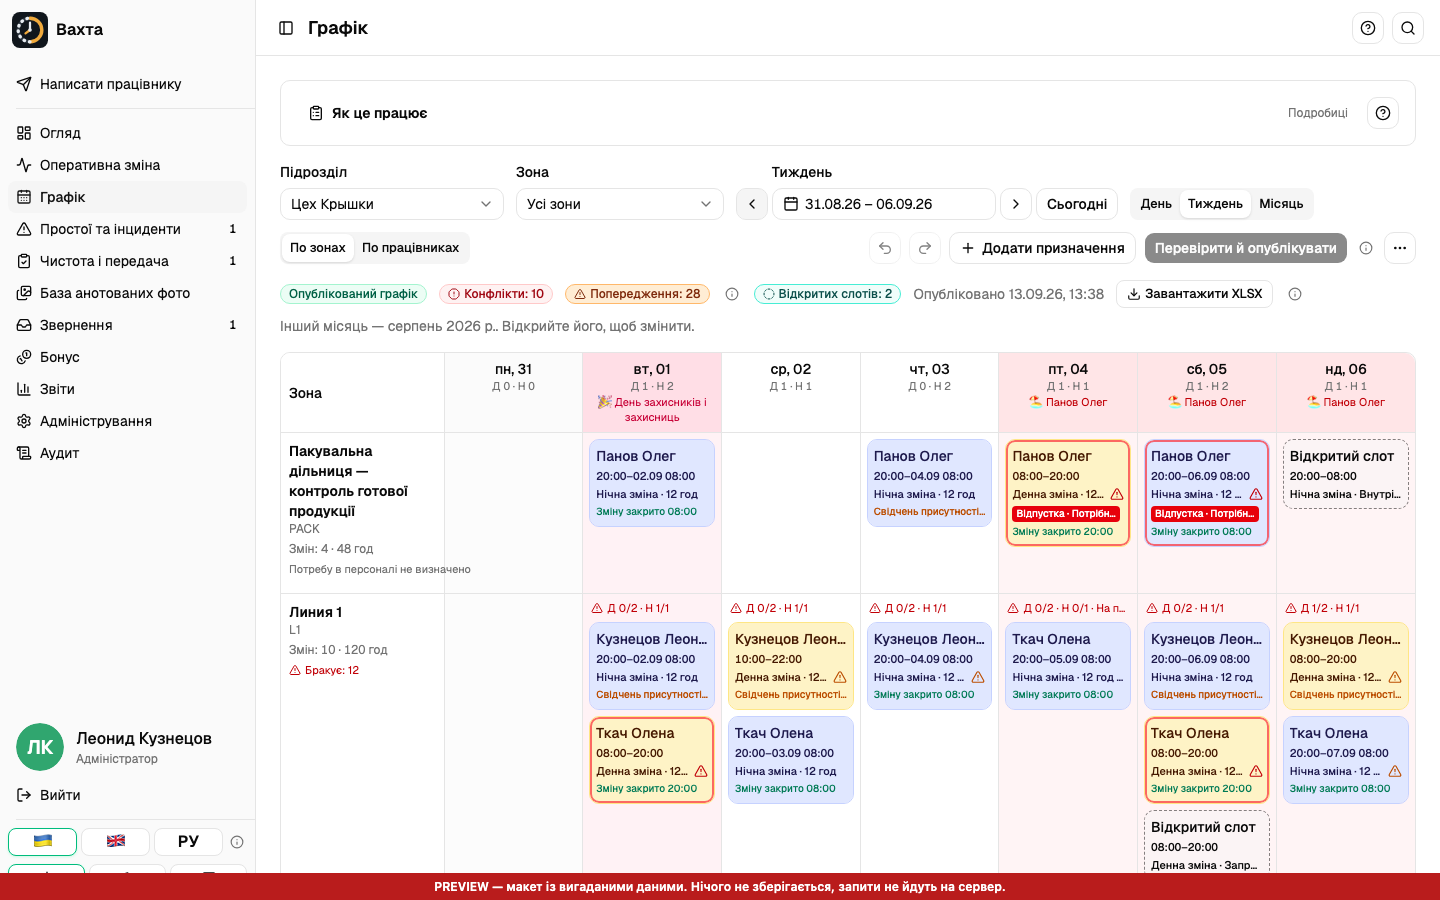
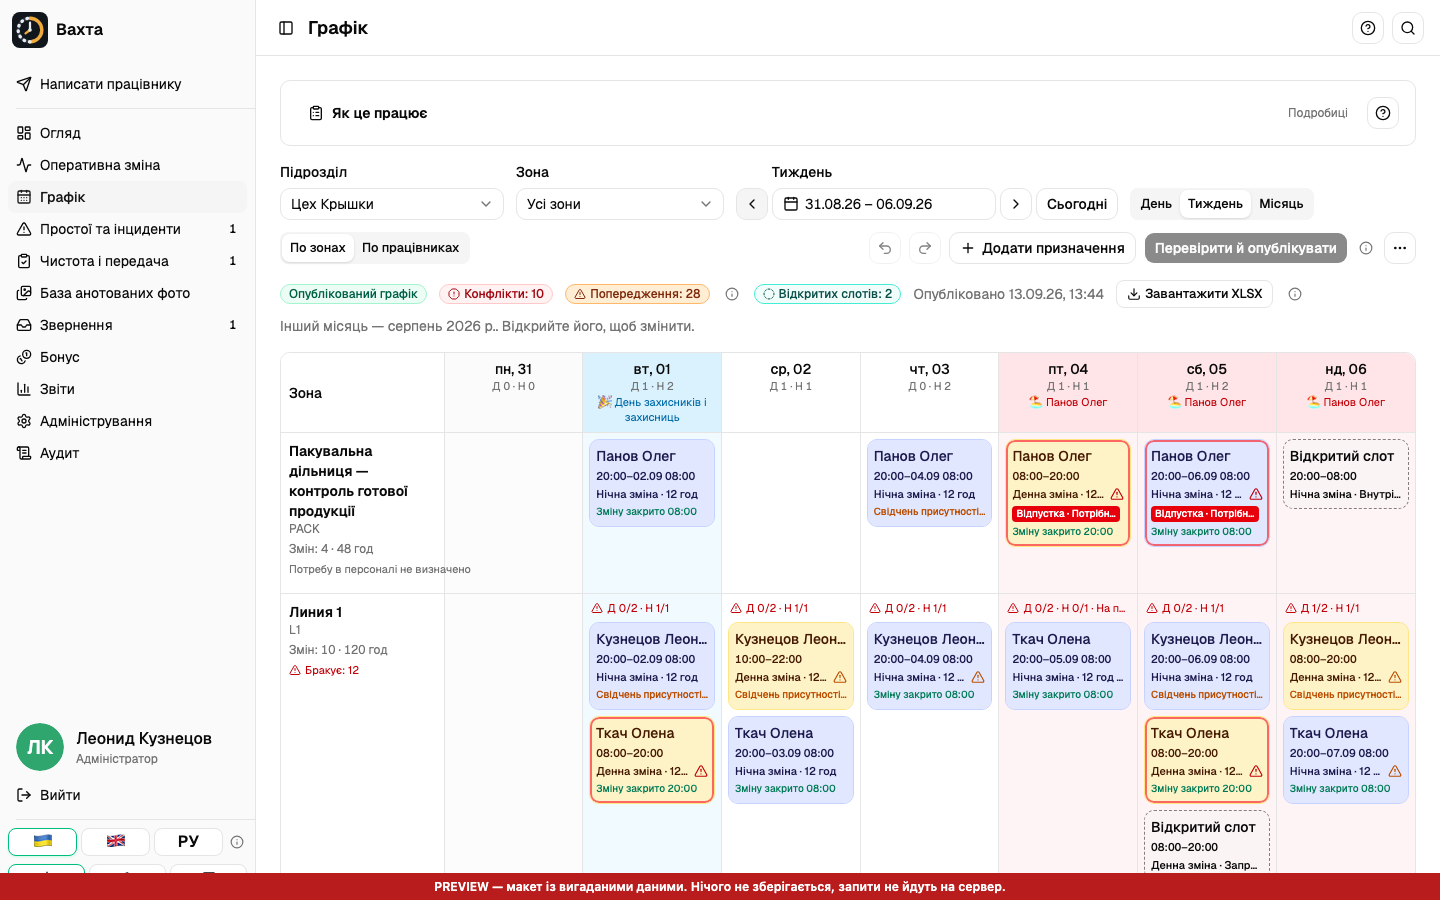
fix(schedule): distinct holiday hue, candidate row states, uniform error alerts
- public holidays are sky, sick leave stays red; the unpublished pill is neutral grey
- candidate rows and cell lists share hover/focus/active/selected styles with a check mark
- eligibility reasons render as shared Alert rows with one typography (red block, orange warn)
- record the one-hue-one-meaning palette and the error typography rule in AGENTS.md

Changed region(s): [[0.4062, 0.3733, 0.5, 0.4978]]

diff --git a/apps/admin-web/src/features/schedule-management/ui/assignment-editor.tsx b/apps/admin-web/src/features/schedule-management/ui/assignment-editor.tsx
@@ -19,6 +19,7 @@ import {
 import { Checkbox } from '@/components/ui/checkbox';
 import { Input } from '@/components/ui/input';
 import { IconButton } from '@/shared/ui/icon-button';
+import { selectableRow } from '@/shared/ui/resource-calendar';
 import { planIssues, reasonText, reasonsFor, useCandidates } from '../model/use-eligibility';
 import { setAssignment as placeAssignment } from '../model/grid';
 import { LoadingState } from '@/shared/ui/loading-state';
@@ -29,6 +30,7 @@ import { DateField } from '@/components/app/date-picker';
 import { Button } from '@/components/ui/button';
 import { QueryFeedback } from '@/components/app/query-feedback';
 import { Feedback } from '@/components/app/feedback';
+import { ReasonAlerts } from './reason-alerts';
 import { InfoTip } from '@/components/app/info-tip';
 import type { Workspace } from '../model/use-workspace';
 import { assignmentKey, gridToItems, sameAssignment, setAssignment, setCell } from '../model/grid';
@@ -503,24 +505,11 @@ export function AssignmentEditor({
           error={format(t.qualificationRequired, { names: missingQualifications.join(', ') })}
         />
       )}
-      {evaluated.filter((reason) => reason.code !== 'QUALIFICATION').length > 0 && (
-        <ul className="space-y-1 text-sm" aria-label={t.conflict}>
-          {evaluated
-            .filter((reason) => reason.code !== 'QUALIFICATION')
-            .map((reason, index) => (
-              <li
-                key={index}
-                className={
-                  reason.severity === 'BLOCK'
-                    ? 'text-red-700 dark:text-red-300'
-                    : 'text-amber-700 dark:text-amber-300'
-                }
-              >
-                {reasonText(reason, labels)}
-              </li>
-            ))}
-        </ul>
-      )}
+      <ReasonAlerts
+        reasons={evaluated.filter((reason) => reason.code !== 'QUALIFICATION')}
+        labels={labels}
+        label={t.conflict}
+      />
       {candidateQuery && (
         <section className="space-y-2" aria-label={t.candidates}>
           <div className="flex items-center gap-1">
@@ -550,12 +539,15 @@ export function AssignmentEditor({
                     <Button
                       type="button"
                       variant="ghost"
-                      className="h-auto w-full flex-col items-start gap-0.5 whitespace-normal py-1.5 text-left"
+                      className={`h-auto w-full flex-col items-start gap-0.5 whitespace-normal py-1.5 text-left ${selectableRow}`}
                       aria-pressed={draft.employeeId === item.employeeId}
                       disabled={item.status === 'BLOCKED'}
                       onClick={() => setDraft({ ...draft, employeeId: item.employeeId })}
                     >
                       <span className="flex w-full items-center gap-2">
+                        {draft.employeeId === item.employeeId && (
+                          <CheckIcon aria-hidden="true" className="size-4 shrink-0 text-primary" />
+                        )}
                         <span className="min-w-0 flex-1 truncate font-medium">
                           {employee.fullName}
                         </span>

diff --git a/apps/admin-web/src/features/schedule-management/ui/resource-schedule.tsx b/apps/admin-web/src/features/schedule-management/ui/resource-schedule.tsx
@@ -13,6 +13,7 @@ import { currentLocale } from '@/i18n';
 import { useIsMobile } from '@/hooks/use-mobile';
 import {
   ResourceCalendar,
+  selectableRow,
   type CalendarSelection,
   type CalendarEmphasis,
 } from '@/shared/ui/resource-calendar';
@@ -33,6 +34,7 @@ import { staffingCoverage } from '../model/use-staffing';
 import { planIssues, reasonText, reasonsFor } from '../model/use-eligibility';
 import { moveAssignment } from '../model/batch';
 import { Feedback } from '@/components/app/feedback';
+import { ReasonAlerts } from './reason-alerts';
 import { UNASSIGNED_ZONE, zoneAllowed } from '../model/planning';
 import type { Workspace } from '../model/use-workspace';
 import { AssignmentEditor, type AssignmentContext } from './assignment-editor';
@@ -344,27 +346,15 @@ export function ResourceSchedule({
                     <dt className="text-muted-foreground">{t.detailAcknowledgement}</dt>
                     <dd>{acknowledgement}</dd>
                   </dl>
-                  {reasonsFor(w.issues.reasons, selectedItem.employeeId, selectedItem.businessDate)
-                    .length > 0 && (
-                    <ul className="space-y-1 text-sm" aria-label={t.conflict}>
-                      {reasonsFor(
-                        w.issues.reasons,
-                        selectedItem.employeeId,
-                        selectedItem.businessDate,
-                      ).map((reason, index) => (
-                        <li
-                          key={index}
-                          className={
-                            reason.severity === 'BLOCK'
-                              ? 'text-red-700 dark:text-red-300'
-                              : 'text-amber-700 dark:text-amber-300'
-                          }
-                        >
-                          {reasonText(reason, labels)}
-                        </li>
-                      ))}
-                    </ul>
-                  )}
+                  <ReasonAlerts
+                    reasons={reasonsFor(
+                      w.issues.reasons,
+                      selectedItem.employeeId,
+                      selectedItem.businessDate,
+                    )}
+                    labels={labels}
+                    label={t.conflict}
+                  />
                   <AbsenceContext
                     events={events.data}
                     failed={events.isError}
@@ -454,7 +444,7 @@ export function ResourceSchedule({
                         <li key={item.id} className="py-2">
                           <Button
                             variant="ghost"
-                            className="h-auto min-h-11 w-full whitespace-normal text-left justify-start"
+                            className={`h-auto min-h-11 w-full justify-start whitespace-normal text-left ${selectableRow}`}
                             onClick={() => select({ ...selection, itemId: item.id })}
                           >
                             {item.title} · {item.time}

diff --git a/apps/admin-web/src/shared/ui/resource-calendar/resource-calendar.tsx b/apps/admin-web/src/shared/ui/resource-calendar/resource-calendar.tsx
@@ -66,17 +66,17 @@ interface ResourceCalendarProps {
 export type CalendarEmphasis = 'unpublished' | 'WARN' | 'BLOCK';
 /** Translucent column tints by day event; the header text and icons carry the meaning. */
 const HEADER_TINT = {
-  holiday: 'bg-rose-500/15 dark:bg-rose-400/20',
+  holiday: 'bg-sky-500/15 dark:bg-sky-400/20',
   absence: 'bg-red-500/12 dark:bg-red-400/20',
   birthday: 'bg-violet-500/15 dark:bg-violet-400/20',
 } as const;
 const COLUMN_TINT = {
-  holiday: 'bg-rose-500/6 dark:bg-rose-400/10',
+  holiday: 'bg-sky-500/6 dark:bg-sky-400/10',
   absence: 'bg-red-500/5 dark:bg-red-400/10',
   birthday: 'bg-violet-500/6 dark:bg-violet-400/10',
 } as const;
 const EVENT_TEXT = {
-  holiday: 'text-rose-700 dark:text-rose-300',
+  holiday: 'text-sky-700 dark:text-sky-300',
   absence: 'text-red-700 dark:text-red-300',
   birthday: 'text-violet-700 dark:text-violet-300',
 } as const;
@@ -323,7 +323,7 @@ export function ResourceCalendar(props: ResourceCalendarProps) {
             return (
               <p className="text-xs [overflow-wrap:anywhere]">
                 {day.holiday && (
-                  <span className="mr-2 text-rose-700 dark:text-rose-300">🎉 {day.holiday}</span>
+                  <span className={cn('mr-2', EVENT_TEXT.holiday)}>🎉 {day.holiday}</span>
                 )}
                 {day.events?.map((event) => (
                   <span
@@ -406,12 +406,7 @@ export function ResourceCalendar(props: ResourceCalendarProps) {
                       </span>
                     )}
                     {date.holiday && (
-                      <span
-                        className={cn(
-                          'block text-[11px] font-normal',
-                          'text-rose-700 dark:text-rose-300',
-                        )}
-                      >
+                      <span className={cn('block text-[11px] font-normal', EVENT_TEXT.holiday)}>
                         🎉 {date.holiday}
                       </span>
                     )}

diff --git a/apps/admin-web/src/shared/ui/resource-calendar/styles.ts b/apps/admin-web/src/shared/ui/resource-calendar/styles.ts
@@ -16,3 +16,10 @@ export const calendarItemColors = {
 /** One interaction treatment preserves item color across calendar densities and groupings. */
 export const calendarInteraction =
   'hover:inset-ring-2 hover:inset-ring-foreground/70 focus-visible:border-foreground focus-visible:ring-2 focus-visible:ring-foreground focus-visible:ring-offset-1 focus-visible:ring-offset-background active:inset-ring-2 active:inset-ring-foreground active:brightness-90 dark:active:brightness-125 active:not-aria-[haspopup]:translate-y-0 aria-pressed:inset-ring-2 aria-pressed:inset-ring-foreground aria-expanded:inset-ring-2 aria-expanded:inset-ring-foreground';
+
+/**
+ * Selectable row in a list (candidates, responses, items): hover, keyboard focus, press and a
+ * selected state that does not rely on color alone (ring plus the caller's check icon).
+ */
+export const selectableRow =
+  'border border-transparent rounded-md transition-colors hover:bg-muted hover:border-border focus-visible:outline-none focus-visible:ring-2 focus-visible:ring-ring focus-visible:ring-offset-1 focus-visible:ring-offset-background active:bg-muted active:brightness-95 dark:active:brightness-110 aria-pressed:border-primary aria-pressed:bg-primary/10 aria-pressed:inset-ring-1 aria-pressed:inset-ring-primary aria-pressed:hover:bg-primary/15 disabled:opacity-60';

diff --git a/apps/admin-web/src/features/schedule-management/ui/reason-alerts.tsx b/apps/admin-web/src/features/schedule-management/ui/reason-alerts.tsx
@@ -1,0 +1,35 @@
+import { AlertCircleIcon, TriangleAlertIcon } from 'lucide-react';
+import type { EligibilityReason } from '@vakhta/domain';
+import { Alert, AlertTitle } from '@/components/ui/alert';
+import { reasonText } from '../model/use-eligibility';
+
+/**
+ * Eligibility reasons rendered with the same typography as every other inline error: one alert
+ * per reason, red for blocking conflicts and orange for warnings (palette rule in AGENTS.md).
+ */
+export function ReasonAlerts({
+  reasons,
+  labels,
+  label,
+}: {
+  readonly reasons: readonly EligibilityReason[];
+  readonly labels: Parameters<typeof reasonText>[1];
+  readonly label: string;
+}) {
+  if (reasons.length === 0) return null;
+  return (
+    <ul className="space-y-2" aria-label={label}>
+      {reasons.map((reason, index) => (
+        <li key={index}>
+          <Alert
+            variant={reason.severity === 'BLOCK' ? 'destructive' : 'warning'}
+            role={reason.severity === 'BLOCK' ? 'alert' : 'status'}
+          >
+            {reason.severity === 'BLOCK' ? <AlertCircleIcon /> : <TriangleAlertIcon />}
+            <AlertTitle>{reasonText(reason, labels)}</AlertTitle>
+          </Alert>
+        </li>
+      ))}
+    </ul>
+  );
+}

diff --git a/apps/admin-web/src/components/ui/alert.tsx b/apps/admin-web/src/components/ui/alert.tsx
@@ -10,6 +10,8 @@ const alertVariants = cva(
         default: 'bg-card text-card-foreground',
         destructive:
           'bg-card text-destructive *:data-[slot=alert-description]:text-destructive/90 *:[svg]:text-current',
+        warning:
+          'bg-card text-orange-700 *:data-[slot=alert-description]:text-orange-700/90 *:[svg]:text-current dark:text-orange-300 dark:*:data-[slot=alert-description]:text-orange-300/90',
       },
     },
     defaultVariants: {

diff --git a/apps/admin-web/src/features/schedule-management/ui/schedule-workspace.tsx b/apps/admin-web/src/features/schedule-management/ui/schedule-workspace.tsx
@@ -499,7 +499,7 @@ function WorkspaceView({
                 w.unpublished > 0 &&
                 pill(
                   'unpublished',
-                  'accent',
+                  'neutral',
                   CircleDashedIcon,
                   format(t.unpublishedChanges, { count: w.unpublished }),
                   t.highlightUnpublished,

diff --git a/apps/admin-web/src/shared/ui/resource-calendar/index.ts b/apps/admin-web/src/shared/ui/resource-calendar/index.ts
@@ -10,4 +10,4 @@ export type {
   CalendarViewModel,
 } from './model';
 export { CalendarDetailPanel } from './detail-panel';
-export { calendarItemColors, calendarInteraction } from './styles';
+export { calendarItemColors, calendarInteraction, selectableRow } from './styles';

diff --git a/AGENTS.md b/AGENTS.md
@@ -134,6 +134,18 @@ Panel: React 19 + Vite. Kiosk: Vite vanilla. Tests: Vitest + fast-check + testco
   length; use the shared TableCount/Paginator. Loading or failed requests must not invent a zero.
 - Long lists and tables are paginated. Forms validate input with the zod contracts and show inline errors.
 - Every non-obvious control has an information tooltip; tooltip texts live in `@vakhta/i18n` in all three languages.
+- Owner rule, 2026-09-13 — one hue means one thing: different states or event kinds never share a
+  colour on the same screen, and a colour is never the only signal (pair it with text or an icon).
+  Schedule palette: day shift amber, night shift indigo, today emerald, public holiday sky,
+  approved absence red, pending absence orange, birthday violet, open slot teal, blocking conflict
+  red ring, warning orange, unpublished change neutral grey with a dashed icon, hover/selection
+  highlight sky ring. Pick a new hue for a new meaning instead of reusing one from this list.
+- Inline errors and warnings share one typography: the shared Alert with its icon and title,
+  red for blocking, orange for warnings. Never render a reason as loose coloured text next to an
+  alert box; different font sizes or weights for messages of the same kind are a defect.
+- Cards inside one calendar cell keep a deterministic order: earlier start first, then title
+  alphabetically in the UI locale, then open slots after assignments. A moved card lands where the
+  rule puts it, never where roster order happened to put it.
 - Owner rule, 2026-09-13: never show the same explanation twice. An explanation lives either in
   visible text or in an information icon with a tooltip, not both; when space is tight or the text
   is secondary (why a button is disabled, a section hint), use the icon + tooltip only. Do not add
